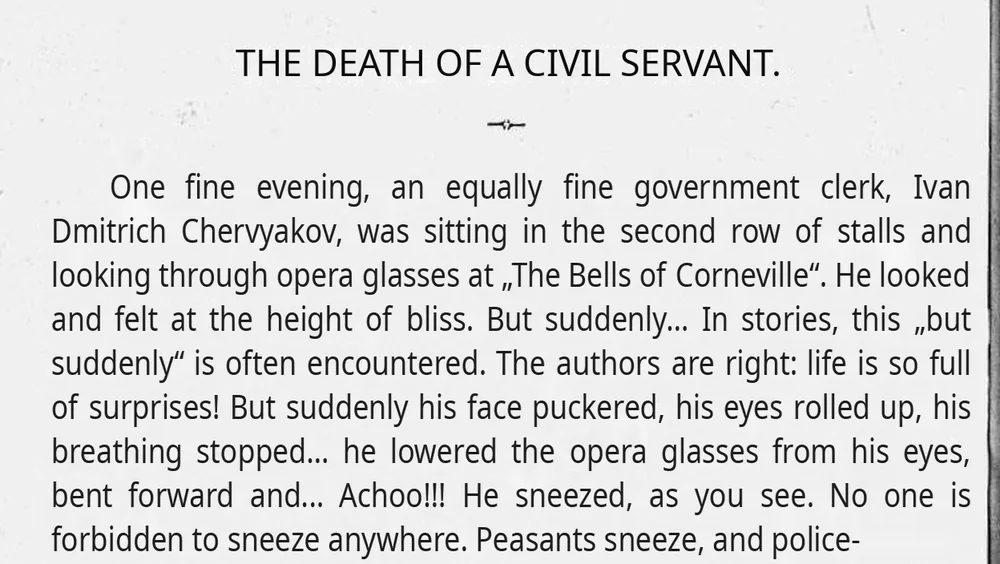
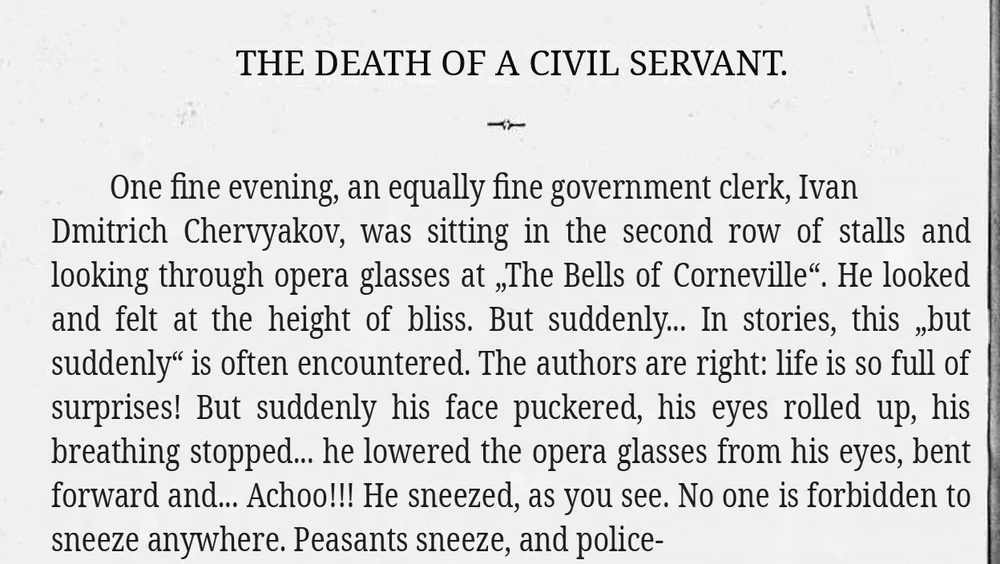
Лендинг /start/: картинки карусели и плиток по правилу Х9; плитка статьи — тоже картинки карусели
Книга (83–87) — антиквой, как оригинал 1886 г.; у статьи (74–77) заголовок
с засечками, текст гротеском. Плитка «Научные статьи» была третьей копией
слайда «paper» — теперь data-img="ph-paper-", tile-article-* удалены.

diff --git a/landing/start/index.html b/landing/start/index.html
@@ -665,10 +665,10 @@ html[lang="en"] .rev q { quotes: "“" "”"; }
           <h3 data-t="t1">Книги</h3><p data-t="t1s">Целиком, главу за главой</p>
           <div class="tl-langs" role="group" aria-label="Перевод на:" data-ta="aria-label:langInto"></div>
         </article>
-        <article class="tile rv" data-tile="article" data-src="EN" style="--d:.08s">
-          <div class="stage shot ts ts-page" aria-hidden="true" style="--ar:900/474">
-            <img class="ts-o" src="media/tile-article-en.webp" width="900" height="474" alt="" loading="lazy" decoding="async">
-            <img class="ts-n" width="900" height="474" alt="" decoding="async">
+        <article class="tile rv" data-tile="article" data-src="EN" data-img="ph-paper-" style="--d:.08s">
+          <div class="stage shot ts ts-page" aria-hidden="true" style="--ar:1000/527">
+            <img class="ts-o" src="media/ph-paper-en.webp" width="1000" height="527" alt="" loading="lazy" decoding="async">
+            <img class="ts-n" width="1000" height="527" alt="" decoding="async">
             <span class="ts-beam" aria-hidden="true"></span>
           </div>
           <h3 data-t="t2">Научные статьи</h3><p data-t="t2s">Формулы и цифры на месте</p>
